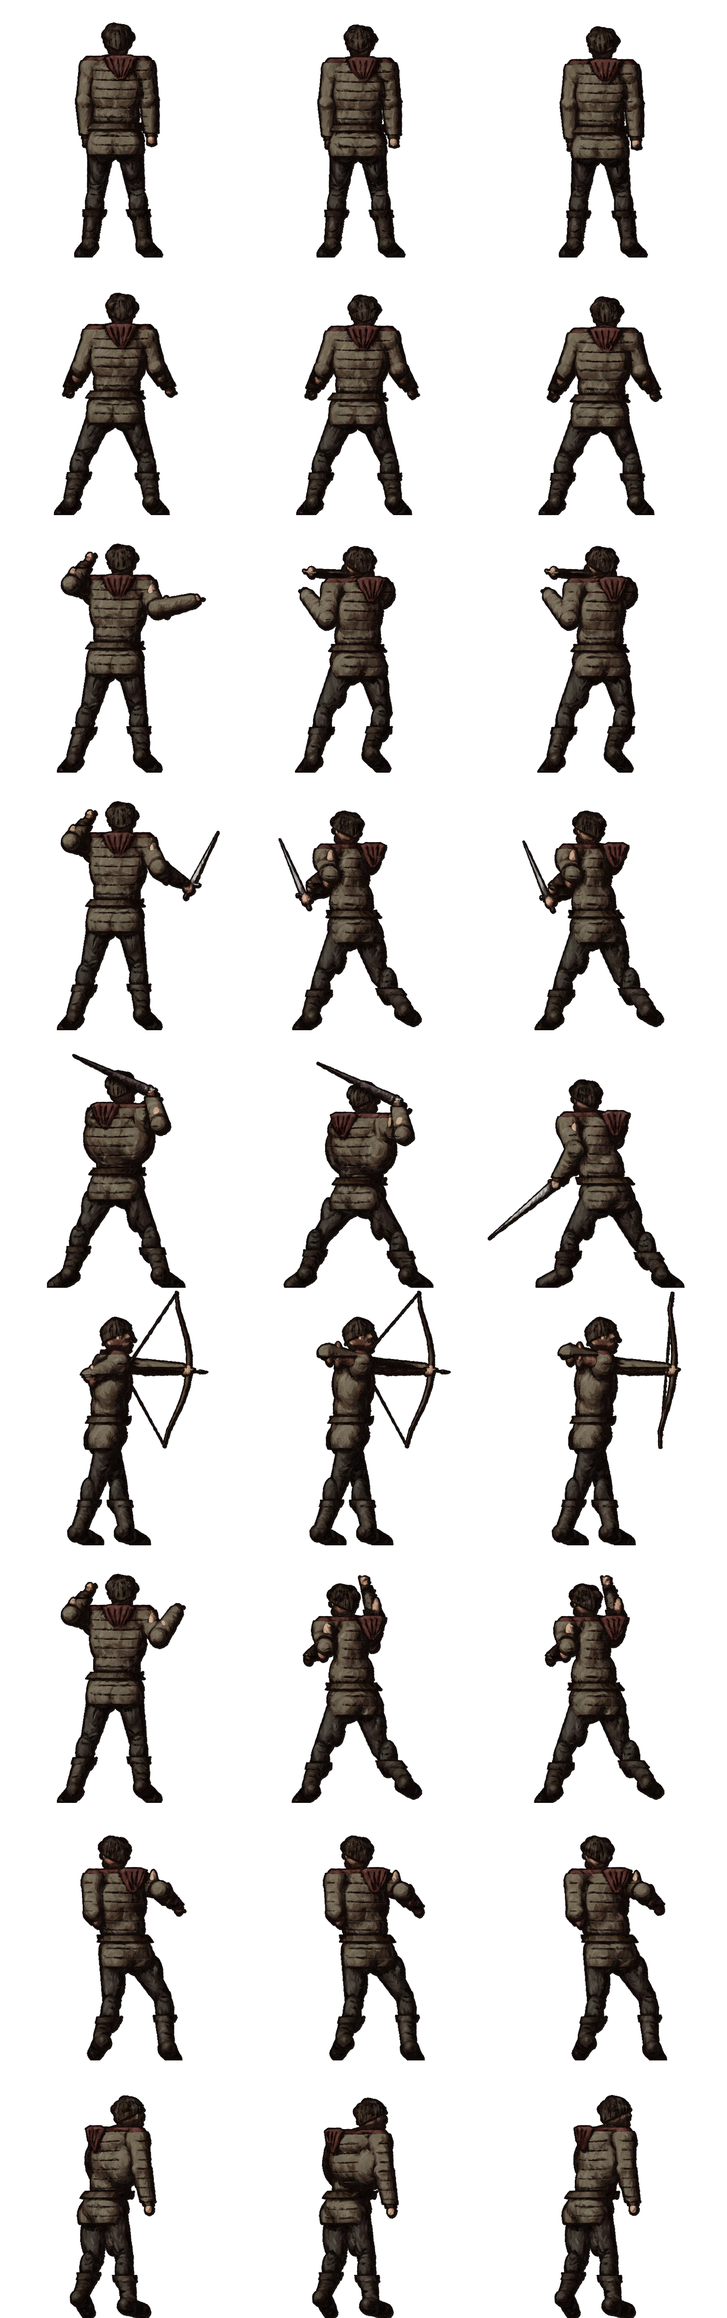
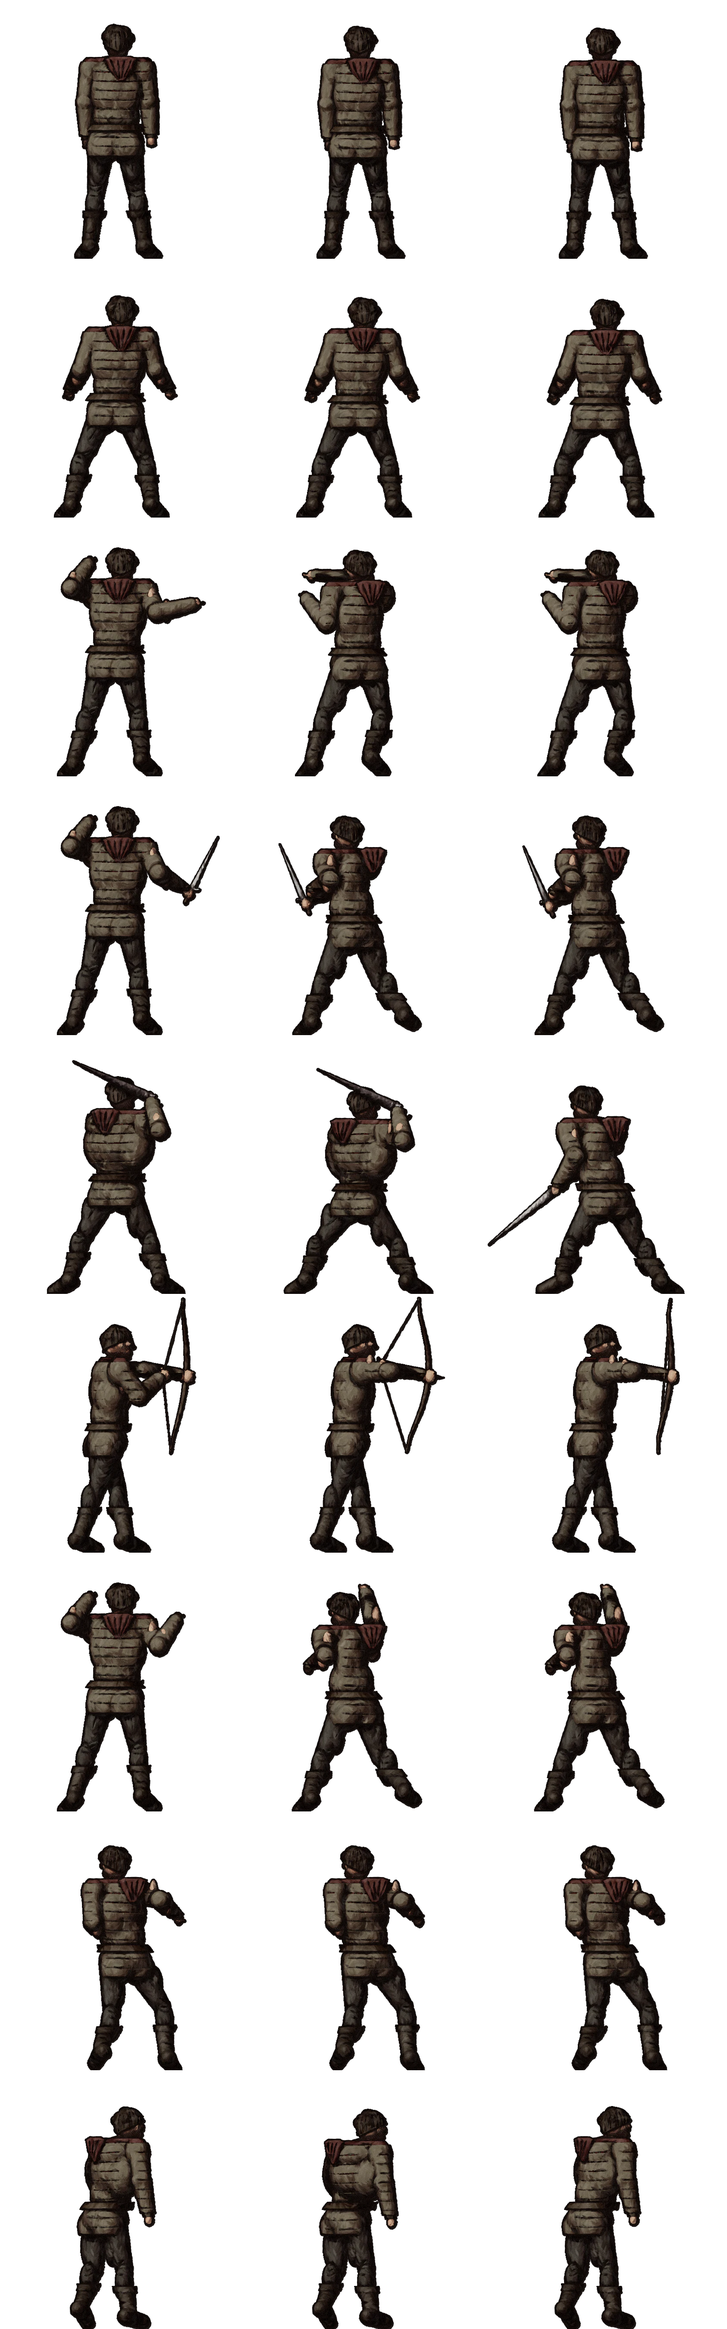
활 = p3(손 그림 · 3칸은 시위만 놓음, 인간·바바리안, UI41)
Claude-Session: https://claude.ai/code/session_01Afqs6dFJFUTaH83rgHHpMy

diff --git a/docs/ASSUMPTIONS.md b/docs/ASSUMPTIONS.md
@@ -561,7 +561,7 @@
 | UI38 | **뒷줄 적을 앞으로 당긴다**(2026-10-28, 사용자 "뒤에 있는 적이 너무 뒤에 있는 것 같다 — 가까이 있는 것처럼"): 줄 깊이 배율 `combat_rows_depth_step` 0.45 → 0.15(뒷줄 크기 69% → 87%, 두 줄 뒤 53% → 77%), 뒷줄 올림 `combat_rows_rise` 0.2 → 0.1(앞줄 바로 뒤에 선다). 앞줄 사이 틈에 서는 규칙·숨지 않는 규칙(UI37)은 그대로 | 앞줄 바로 뒤에 붙어 선 무리로 보이게 | render.json `combat_rows_depth_step`·`combat_rows_rise` |
 | UI39 | **Tab 캐릭터 쪽 W/S = 한 줄로 이어진 자리**(2026-10-28, 사용자 "W/S 조작이 제대로 안 먹는다 · 정수가 노란 강조라 캐릭터 창 노란 강조는 빼라"): 맨 위 요약 → 정수 카드 하나하나 → 세부 능력 차례로 옮기고(옮기면 그 자리가 보이게 스크롤), 세부 능력 안에서는 W/S가 스크롤(맨 위에서 W면 마지막 카드로). 예전엔 카드 사이만 옮기다 끝 카드 아래로 스크롤한 뒤 W가 카드로 튀었다. 쪽을 열면 요약부터(카드 커서 없음), 요약·세부 능력에서 Enter는 아무것도 집지 않는다. 캐릭터 쪽은 고른 쪽이어도 테두리를 금색으로 밝히지 않는다(`MenuPage.lit_frame`) — 금색은 정수 카드 커서만 | | `CharacterPage.nav` |
 | UI40 | **대상으로 고른 적 = 흰빛**(2026-10-28, 사용자 "적 선택할 때 노란 강조 없애고 적 스프라이트가 살짝 흰색 — 피어 앤 헝거 참고"): 노란 발밑 고리·금색 이름을 없애고, 그 적의 그림 모양대로 흰 실루엣을 얹어 숨 쉬듯 오르내린다(`assets/shaders/target_flash.gdshader`, `BattlerView._flash`, render.json `ui.combat_target_flash {min 0.18, max 0.42, hz 0.9}`). 지금 차례의 발밑 고리는 그대로. 그림 없는 임시 도형은 색을 밝게. **아군 숨쉬기(idle)는 미리보기만** — `tools/idle_breathe_preview.py`(엉덩이 아래 고정, 어깨·머리 키의 0.7% 오르내림, 가슴 폭 1.2%, 한 숨 2.8초) — 게임에 넣으려면 같은 변형을 셰이더(정점 또는 UV 휘기)로 **아군 대기 시트**(사용자 2026-10-28 피어 앤 헝거 아군 전투 시트 첨부 "분석해서 다시 그려봐"): 그 시트 = 9×6칸(RPG 메이커 옆모습 전투원 — 동작마다 3칸), 대기 = 맨손 겨눔 3칸을 0-1-2-1로, 발은 그대로 위 몸이 가라앉았다 올라온다. 겨눔 자세는 그려 봤다가 뺐다(사용자 "하지마 그냥 몸만 들썩이는 것만 남겨") — 우리 그림은 지금 자세 그대로 무릎을 굽혀 몸(팔 포함)만 들썩인다. 그림을 휘는 방식(`idle_breathe_preview.py`) 대신 3D 뼈대로 칸마다 다시 그린다 — `BackPose.idle(b)`(DIP 0.016) + `tools/paint_idle.gd` → `assets/party/<종족>_<view>_idle.webp`. **게임에 넣음**(사용자 "일단 게임에 넣어 봐"): BattlerView가 탐험가(동료 포함)의 대기 칸을 0-1-2-1로 넘긴다(칸마다 `render.json ui.combat_party_idle.frame_s` 0.35초, 아군끼리 시작 시각을 흩뜨림). 소환수·적은 그대로. | 피어 앤 헝거 2의 대상 표시·숨쉬는 아군 | render.json `ui.combat_target_flash` |
-| UI41 | **전투 탐험가 동작 시트**(사용자 2026-10-28 "트레이싱하듯 못 그리나 — 잘 좀 해 봐, 대충 비슷한 자세만 말고" + "시트 전체 동작"): 첨부 시트(9×6칸, 동작마다 3칸)를 베끼지 않고 **칸마다 관절 2D 위치를 재서**(120px 칸 좌표 — 머리·목·골반·어깨·팔꿈치·주먹·무릎·발목·발끝·칼끝, `tools/monster_art/party_motions.json`) 우리 3D 뼈대로 옮긴다(`PartyMotion` — 뼈 길이는 우리 몸, 화면 방향은 원본, 원본 펴진 길이 `REF_LEN`보다 짧아 보이면 그 비율만큼 깊이로; 몸 돌림 `turn`은 칸마다). 원본 18동작 중 서로 다른 것 9개: idle(원본 승리·빈사·상태이상·수면 칸 = 팔 내리고 선 자세) · stance(원본 전진) · thrust(주먹) · guard · swing(칼 — 이 동작만 칼을 쥔다) · spell(원본 주문·아이템) · damage · wait(돌아선 대기 — 원본 대기·영창·회피) · escape. 쓰러짐 = 선 몸을 화면에서 통째로 눕힌다(`Back.P`의 roll — 옷 띠·단도 함께 돌린다, 머리 왼쪽). **옆모습은 없앴다**(사용자 "완전 옆모습 버전은 필요 없어, 게임에서 옆모습 나오는 걸 지워" — `<종족>_side` 그림·`combat_party_side_from`·좌우 반전 삭제, 모든 자리에서 뒷모습). 가드 왼팔이 몸 뒤로 숨어 왼 주먹을 머리 왼쪽으로, 몸을 돌리면 떠 보이던 점(허리띠 앞 버클이 배 표면보다 앞에 있었다)은 골반을 따라 배 표면에 붙임.  **동작별 쓰임(제안 — 전투에 연결할 때)**: ①대기 = 내 차례가 아닐 때 늘(들썩임, 0-1-2-1 · 승리 뒤에도) ②전투 자세 = 내 차례에 명령을 고르는 동안 ③주먹 지르기 = 기본 공격·물리 스킬(맨손) ④방어 = 방어 명령 — 다음 차례까지 3칸째에서 멈춤 ⑤칼 휘두르기 = 무기를 든 기본 공격·물리 스킬(UI11 "전투 그림은 무기를 들지 않는다"와 부딪혀 사용자 결정 전 — 안 쓰면 ③으로) ⑥주문 = 마법·정수 스킬·아이템 사용 ⑦피격 = 피해를 받을 때 한 번 → ① ⑧돌아선 대기 = 회피 성공 때 한 번(원본 회피 칸) ⑨도망 = 도망 명령 ⑩쓰러짐 = 생명력 0(지금의 흐려짐 대신). **게임에 넣음**(사용자 2026-10-28 "무기 상관없이 게임에 넣고, 죽을 때는 피격을 보이며 죽은 모습"): `PartySprite`(BattlerView) — 대기 들썩임(UI40의 대기 시트를 이 시트 첫 줄로 합쳤다) · 내 차례 전투 자세 · `Battle.act`가 내보내는 `act` 사건으로 행동 동작(기본 공격 = 칼 휘두르기, 물리 피해 스킬 = 주먹, 그 밖 스킬·아이템 = 주문, 방어 = 방어 — 방어 중(guarding) 끝 칸에 머묾, 도망 = 도망) · 피해 사건(맞음 = 피격, 빗나감 = 돌아선 대기) · 쓰러짐 = 피격 뒤 누운 몸(창 뒤로 가라앉은 만큼 올려 창 위 바닥에, 흐리지 않음, 되살면 대기로). 빠르기 `render.json ui.combat_party_motion`(대기 0.35초 · 행동 0.12초 + 끝 칸 0.3초). 팔 밑 혹(전투 자세·돌아선 대기·도망)은 든 팔의 팔꿈치가 소매 아래로 맨살로 삐져나온 것 — 든 팔이면 소매를 팔꿈치 아래까지(`BackCloak._sleeve_end`), 돌아선 대기·도망은 오른팔을 내림. 무대 배치 폭은 한 장 그림(<종족>_back) 기준이라 동작 칸이 넓어도 자리가 바뀌지 않는다. **고침(사용자 2026-10-28 F&H 전투 화면 2장 첨부)**: 방어 동작·도망 동작을 뺐다 — 방어 = 전투 자세(방어 중에는 전투 자세를 돈다), 도망 = 주문 동작(시트 7줄). 쓰러진 몸은 올리지 않는다(발 자리 그대로 — 아래 창 뒤에 비친다). 전투 아래 창(명령·파티·대화창)은 반투명(`ui.combat_window_alpha` 0.72 — `UiTheme.see_through`). 적이 멀어 보임 → 적의 발을 아군 머리보다 `combat_enemy_overlap`(무대 높이 × 0.24) 아래로(전엔 아군 머리 위 — 아군이 적 발치를 가린다), 사람 키 적 = 무대 × `combat_enemy_height` 0.66(전 0.4), 아군 가라앉음 `combat_party_sink` 180 → 150. 대기 자세(사용자 "대기가 어색 — 왼팔도 오른팔처럼 살짝 떼"): 인간 팔 `arm_l` hang → ready(두 팔 같이 — `Party.spec_of`, 한 장 그림 `human_back`도 다시). 전투 자세("팔뚝을 살짝 떼고 팔 끝을 살짝 내려"): 팔꿈치 3px 바깥, 주먹 6~7px 아래·바깥(왼 주먹은 몸 뒤로 숨지 않게 더 바깥). **고른 자세(사용자 2026-10-28 — 후보 대기 7·자세 8 `tools/monster_art/party_pose_candidates.json`에서)**: 인간 = 대기 2(팔을 몸에서 살짝 떼어 곧게) · 전투 자세 6(허리 낮추고 팔 벌림), 바바리안 = 대기 2 · 전투 자세 1(처음 잰 F&H 전진 3칸). 대기·인간 전투 자세는 그 한 자세에 들썩임(dip 0·0.5·1)으로 3칸, 종족마다 다른 칸은 json `동작@종족`. 바로 전 '두 팔 ready'는 되돌림. 몬스터 크기 조금 줄임(사용자 2026-10-28): 사람 키 적 `combat_enemy_height` 0.66 → 0.58, 보스 `combat_boss_height` 0.92 → 0.62(보스는 위 여백 제한이 먼저 걸려 0.85로는 그대로였다 — 약 10% 작게). **무기 덮개는 되돌림**(사용자 "덮개 없는 걸로"). 바바리안 전투 자세는 위아래 들썩임으로. 대검·활 동작은 후보를 다시 그림(`tools/monster_art/party_weapon_candidates.json` — 대검 hA~hD: 1·2칸 무릎을 굽혀 웅크렸다가 3칸에 내려침, 활 bA~bE·b1~b4: 몸을 옆으로 확 틀어 정면(적 쪽)으로 쏨, 활은 리커브 모양·당기면 시위와 화살). 새 도구: 동작 칸의 `ik`(손을 3D 자리에 두고 팔꿈치는 pole 쪽 — PartyMotion._reach)·`aim`·`up`. 고르면 게임에 넣는다. **대검 = hC**(사용자 2026-10-28): heavy 줄(1·2칸 칼을 등 뒤로 젖히고 몸을 비틀며 무릎을 굽힘 → 3칸 왼쪽 아래로 내려침). 기본 공격 = 주무기 종류대로(양손 무기 heavy · 활 shoot — 줄이 없으면 swing · 그 밖 swing, `PartySprite.weapon_kind`). 활은 다시 그림: 첨부를 다시 보니 몸을 오른쪽으로 틀어(오른 옆구리가 보는 쪽) 왼손 활대를 적 쪽으로 뻗고 오른팔꿈치는 등 뒤로 접혀 손이 턱 옆 — 손을 3D 자리에 두고 당기는 팔꿈치는 뒤쪽 pole(이전 후보는 pole이 틀려 팔이 비틀렸다). 놓은 칸은 손이 활 쪽으로 따라 나간다. 후보 t1~t6·u1~u4. **활 = z1**(사용자 2026-10-28): shoot 줄 — 오른쪽(적)을 향한 옆모습, 왼다리를 적 쪽으로 내딛고 오른다리 뒤에서 살짝 굽힘, 왼팔은 활을 쥐고 곧게, 오른손은 시위(1칸 반쯤 → 2칸 턱 밑까지, 팔꿈치는 어깨 위 뒤로 → 3칸 놓아 손이 뒤로 튀고 시위가 곧게). 팔꿈치 자리까지 정해서 그린다(ik elbow — 손만 정하면 어깨 가까이에서 팔꿈치가 꺾였다). | 사용자 요청 | 관절 고치기: json 칸의 p 점(원본 칸 px)·d(먼 쪽 a/보는 쪽 t) → `paint_motions.gd`. 겹쳐 보기는 원본 칸 위에 점을 그려 맞춘다 |
+| UI41 | **전투 탐험가 동작 시트**(사용자 2026-10-28 "트레이싱하듯 못 그리나 — 잘 좀 해 봐, 대충 비슷한 자세만 말고" + "시트 전체 동작"): 첨부 시트(9×6칸, 동작마다 3칸)를 베끼지 않고 **칸마다 관절 2D 위치를 재서**(120px 칸 좌표 — 머리·목·골반·어깨·팔꿈치·주먹·무릎·발목·발끝·칼끝, `tools/monster_art/party_motions.json`) 우리 3D 뼈대로 옮긴다(`PartyMotion` — 뼈 길이는 우리 몸, 화면 방향은 원본, 원본 펴진 길이 `REF_LEN`보다 짧아 보이면 그 비율만큼 깊이로; 몸 돌림 `turn`은 칸마다). 원본 18동작 중 서로 다른 것 9개: idle(원본 승리·빈사·상태이상·수면 칸 = 팔 내리고 선 자세) · stance(원본 전진) · thrust(주먹) · guard · swing(칼 — 이 동작만 칼을 쥔다) · spell(원본 주문·아이템) · damage · wait(돌아선 대기 — 원본 대기·영창·회피) · escape. 쓰러짐 = 선 몸을 화면에서 통째로 눕힌다(`Back.P`의 roll — 옷 띠·단도 함께 돌린다, 머리 왼쪽). **옆모습은 없앴다**(사용자 "완전 옆모습 버전은 필요 없어, 게임에서 옆모습 나오는 걸 지워" — `<종족>_side` 그림·`combat_party_side_from`·좌우 반전 삭제, 모든 자리에서 뒷모습). 가드 왼팔이 몸 뒤로 숨어 왼 주먹을 머리 왼쪽으로, 몸을 돌리면 떠 보이던 점(허리띠 앞 버클이 배 표면보다 앞에 있었다)은 골반을 따라 배 표면에 붙임.  **동작별 쓰임(제안 — 전투에 연결할 때)**: ①대기 = 내 차례가 아닐 때 늘(들썩임, 0-1-2-1 · 승리 뒤에도) ②전투 자세 = 내 차례에 명령을 고르는 동안 ③주먹 지르기 = 기본 공격·물리 스킬(맨손) ④방어 = 방어 명령 — 다음 차례까지 3칸째에서 멈춤 ⑤칼 휘두르기 = 무기를 든 기본 공격·물리 스킬(UI11 "전투 그림은 무기를 들지 않는다"와 부딪혀 사용자 결정 전 — 안 쓰면 ③으로) ⑥주문 = 마법·정수 스킬·아이템 사용 ⑦피격 = 피해를 받을 때 한 번 → ① ⑧돌아선 대기 = 회피 성공 때 한 번(원본 회피 칸) ⑨도망 = 도망 명령 ⑩쓰러짐 = 생명력 0(지금의 흐려짐 대신). **게임에 넣음**(사용자 2026-10-28 "무기 상관없이 게임에 넣고, 죽을 때는 피격을 보이며 죽은 모습"): `PartySprite`(BattlerView) — 대기 들썩임(UI40의 대기 시트를 이 시트 첫 줄로 합쳤다) · 내 차례 전투 자세 · `Battle.act`가 내보내는 `act` 사건으로 행동 동작(기본 공격 = 칼 휘두르기, 물리 피해 스킬 = 주먹, 그 밖 스킬·아이템 = 주문, 방어 = 방어 — 방어 중(guarding) 끝 칸에 머묾, 도망 = 도망) · 피해 사건(맞음 = 피격, 빗나감 = 돌아선 대기) · 쓰러짐 = 피격 뒤 누운 몸(창 뒤로 가라앉은 만큼 올려 창 위 바닥에, 흐리지 않음, 되살면 대기로). 빠르기 `render.json ui.combat_party_motion`(대기 0.35초 · 행동 0.12초 + 끝 칸 0.3초). 팔 밑 혹(전투 자세·돌아선 대기·도망)은 든 팔의 팔꿈치가 소매 아래로 맨살로 삐져나온 것 — 든 팔이면 소매를 팔꿈치 아래까지(`BackCloak._sleeve_end`), 돌아선 대기·도망은 오른팔을 내림. 무대 배치 폭은 한 장 그림(<종족>_back) 기준이라 동작 칸이 넓어도 자리가 바뀌지 않는다. **고침(사용자 2026-10-28 F&H 전투 화면 2장 첨부)**: 방어 동작·도망 동작을 뺐다 — 방어 = 전투 자세(방어 중에는 전투 자세를 돈다), 도망 = 주문 동작(시트 7줄). 쓰러진 몸은 올리지 않는다(발 자리 그대로 — 아래 창 뒤에 비친다). 전투 아래 창(명령·파티·대화창)은 반투명(`ui.combat_window_alpha` 0.72 — `UiTheme.see_through`). 적이 멀어 보임 → 적의 발을 아군 머리보다 `combat_enemy_overlap`(무대 높이 × 0.24) 아래로(전엔 아군 머리 위 — 아군이 적 발치를 가린다), 사람 키 적 = 무대 × `combat_enemy_height` 0.66(전 0.4), 아군 가라앉음 `combat_party_sink` 180 → 150. 대기 자세(사용자 "대기가 어색 — 왼팔도 오른팔처럼 살짝 떼"): 인간 팔 `arm_l` hang → ready(두 팔 같이 — `Party.spec_of`, 한 장 그림 `human_back`도 다시). 전투 자세("팔뚝을 살짝 떼고 팔 끝을 살짝 내려"): 팔꿈치 3px 바깥, 주먹 6~7px 아래·바깥(왼 주먹은 몸 뒤로 숨지 않게 더 바깥). **고른 자세(사용자 2026-10-28 — 후보 대기 7·자세 8 `tools/monster_art/party_pose_candidates.json`에서)**: 인간 = 대기 2(팔을 몸에서 살짝 떼어 곧게) · 전투 자세 6(허리 낮추고 팔 벌림), 바바리안 = 대기 2 · 전투 자세 1(처음 잰 F&H 전진 3칸). 대기·인간 전투 자세는 그 한 자세에 들썩임(dip 0·0.5·1)으로 3칸, 종족마다 다른 칸은 json `동작@종족`. 바로 전 '두 팔 ready'는 되돌림. 몬스터 크기 조금 줄임(사용자 2026-10-28): 사람 키 적 `combat_enemy_height` 0.66 → 0.58, 보스 `combat_boss_height` 0.92 → 0.62(보스는 위 여백 제한이 먼저 걸려 0.85로는 그대로였다 — 약 10% 작게). **무기 덮개는 되돌림**(사용자 "덮개 없는 걸로"). 바바리안 전투 자세는 위아래 들썩임으로. 대검·활 동작은 후보를 다시 그림(`tools/monster_art/party_weapon_candidates.json` — 대검 hA~hD: 1·2칸 무릎을 굽혀 웅크렸다가 3칸에 내려침, 활 bA~bE·b1~b4: 몸을 옆으로 확 틀어 정면(적 쪽)으로 쏨, 활은 리커브 모양·당기면 시위와 화살). 새 도구: 동작 칸의 `ik`(손을 3D 자리에 두고 팔꿈치는 pole 쪽 — PartyMotion._reach)·`aim`·`up`. 고르면 게임에 넣는다. **대검 = hC**(사용자 2026-10-28): heavy 줄(1·2칸 칼을 등 뒤로 젖히고 몸을 비틀며 무릎을 굽힘 → 3칸 왼쪽 아래로 내려침). 기본 공격 = 주무기 종류대로(양손 무기 heavy · 활 shoot — 줄이 없으면 swing · 그 밖 swing, `PartySprite.weapon_kind`). 활은 다시 그림: 첨부를 다시 보니 몸을 오른쪽으로 틀어(오른 옆구리가 보는 쪽) 왼손 활대를 적 쪽으로 뻗고 오른팔꿈치는 등 뒤로 접혀 손이 턱 옆 — 손을 3D 자리에 두고 당기는 팔꿈치는 뒤쪽 pole(이전 후보는 pole이 틀려 팔이 비틀렸다). 놓은 칸은 손이 활 쪽으로 따라 나간다. 후보 t1~t6·u1~u4. **활 = z1**(사용자 2026-10-28): shoot 줄 — 오른쪽(적)을 향한 옆모습, 왼다리를 적 쪽으로 내딛고 오른다리 뒤에서 살짝 굽힘, 왼팔은 활을 쥐고 곧게, 오른손은 시위(1칸 반쯤 → 2칸 턱 밑까지, 팔꿈치는 어깨 위 뒤로 → 3칸 놓아 손이 뒤로 튀고 시위가 곧게). 팔꿈치 자리까지 정해서 그린다(ik elbow — 손만 정하면 어깨 가까이에서 팔꿈치가 꺾였다). **활 최종 = p3**(사용자 2026-10-29): z 자세에 손을 따로 그림(`BackExtras._bow_hands` — 활 쥔 주먹 · 시위에 건 세 손가락, 손목 띠로 팔과 가름), 당긴 팔은 팔꿈치를 보는 쪽으로 굽혀 몸 앞으로, 3칸은 2칸과 같은 팔에 시위만 놓음(손가락 펴짐·시위 곧게·화살 없음). 든 팔은 소매가 팔꿈치 위까지(`BackCloak._sleeve_top`). | 사용자 요청 | 관절 고치기: json 칸의 p 점(원본 칸 px)·d(먼 쪽 a/보는 쪽 t) → `paint_motions.gd`. 겹쳐 보기는 원본 칸 위에 점을 그려 맞춘다 |
 | FL1 | **층 방향 = 위로 오른다**(사용자 2026-10-27 "1층이 제일 아래고 위로 올라가는 거다, 10층이 제일 위"): 화면 글·서적·아이템 설명에서 "아래층·깊은 층·내려간"을 "위층·높은 층·오른다"로(포탈 소문 `explore.party.rumor_portal`, 서적 「위층으로 오르는 문」, 5등급 마석·아이디움 설명). 미궁 안 지형 묘사(굴 깊숙이·비탈을 내려간다)는 그대로. 개발 문서의 "깊은 층"은 "높은 층"의 뜻으로 읽는다 | 사용자 결정 | 문구 |
 | CT49 | **상점·대장간 선택 창 = [구매][판매][나가기]**(사용자 결정 2026-10-24 "구매/판매를 누르고 또 구매 판매를 눌러야 하는데 3개로 나눠 줄래"): 시설 선택 창에서 [구매]·[판매]가 바로 그 목록을 연다(`FacilityView._entries` — 활동 `panel: shop` 하나가 두 칸). 목록 맨 끝 돌아가기 = 선택 창으로(커서는 연 칸에). CT40의 "먼저 구매/판매 탭"을 대신한다 | 사용자 결정 | `FacilityView._entries` · `ShopPanel.mode·back` |
 | CT48 | **여관 식사는 값대 넷, 값대 안에서 랜덤**(사용자 결정 2026-10-24 "식사 버프는 한 번만 — 두 번 이상이면 마지막 것만 · 완전 랜덤이 아니라 카테고리별 금액대, 피로만 줄이는 음식은 싸게, 좋은 버프일수록 비싸게, 카테고리 안에서는 랜덤 · 가격대는 알아서"): 요기 `inn_snack` 60스톤 · 피로 −10 · 버프 없음(보리 귀리죽·콩죽 — 원래 버프를 뺐다) / 식사 `inn_meal` 300 · −15 · 미궁 12시간 소소한 것(독·어둠·냉기·화염 내성 +8 — 정수가 주는 4~23 수준, 시야 +5) / 든든한 식사 `inn_hearty` 1,500 · −20 · 전투 3번 전투 버프 11가지(근력·민첩·정신력·항마력·생명력 +10%, 받는 물리 −10%, 명중·회피·치명·흡혈·도주) / 특식 `inn_feast` 4,000 · −30(약초 전골 독 내성 +12) · 특식 날(거리 사건)만, 전투 4번·24시간 두 가지 6가지. 요리 버프는 하나만 — 새로 먹으면 앞의 것은 사라진다(원래부터 그랬다). **요기는 걸린 요리 효과를 지우지 않는다**(버프가 없는 음식이라 '마지막 버프'가 아니다 — 피로를 덜려고 싼 걸 먹었다가 비싼 버프를 잃지 않게) | 값과 이득이 맞물려야 고르는 맛이 있다. 같은 날 사용자 "전체적으로 너무 싸다 — 든든한 식사·특식은 크게크게, 내성 +25는 너무 많다" → 원정 한 번 벌이 약 36,000(`docs/balance/city.md`) 기준으로 요기 10→60 · 식사 25→300 · 든든한 식사 45→1,500 · 특식 90→4,000, 내성 25→8 | 값·피로 = 활동 JSON, 값대 = `data/meals.json` menu(plain·light·hearty·special — plain은 duration 없음, 검증기). 요기가 버프를 지우게 하려면 `Meals.eat`의 첫 줄에서 clear |

diff --git a/docs/PROGRESS.md b/docs/PROGRESS.md
@@ -23,7 +23,7 @@
 7. 작은 것: 낡은 데이터 키(`render.json combat_card_*`, 층 `resets_each_entry`), 감사 잔여(AU4 도발 위협 수치·정수판 덫 맵 설치·냄새 표시·X15), 탐험 맵 그림 다듬기(물가·벽면·소품 y 정렬), 전투 뒷그림 다듬기(군주전 전용·탄광 2장), 몬스터 그림 ↔ 데이터 대조, 성능(균열 입장 0.5초).
 
 **B. 사용자 결정이 필요한 것**
-7a. **전투 탐험가 동작**(UI41): 대검 hC · 활 z1 게임에 들어감 — 직접 보고 빠르기(`ui.combat_party_motion`) 조절.
+7a. **전투 탐험가 동작**(UI41): 대검 hC · 활 p3(인간·바바리안) 게임에 들어감 — 직접 보고 빠르기(`ui.combat_party_motion`) 조절.
 8. **한 판 직접 플레이**(가장 중요): 새 캐릭터 → 도시 한 달 → 1층 → 귀환. 체크리스트는 `docs/PLAYTEST.md` 맨 위.
 9. **거리 사건 원정대 귀환·마석 매집**: 마석 매입 배율을 거는데 마석을 사는 창구가 없어져(CT58) 효과가 없다 — 정산 배율로 옮길지·사건을 바꿀지.
 10. **탐험가 등급**: 지금 모두 9등급(정산 신원패) — 오르는 규칙·혜택(원작 원문이 있으면).
